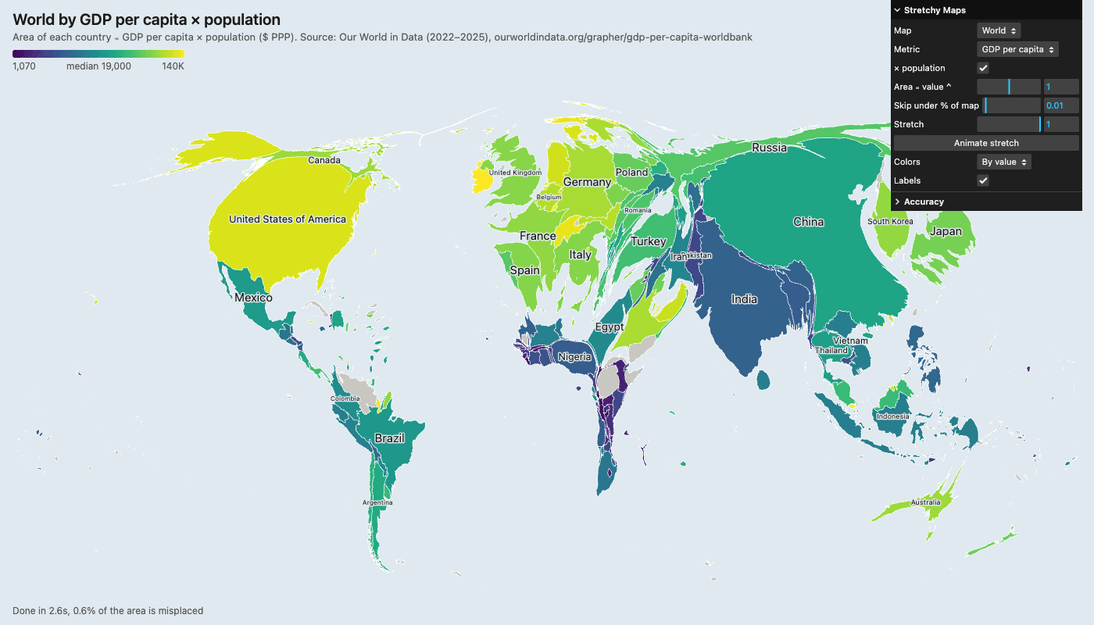
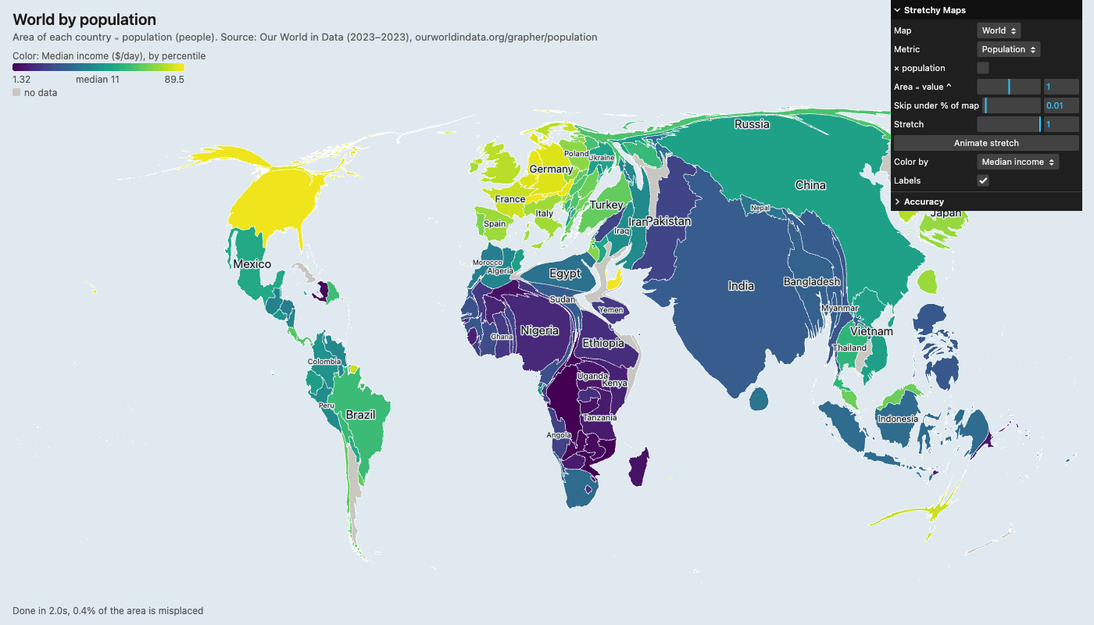
cartogram: color by a second metric, glide between cartograms when switching metrics

diff --git a/cartogram/main.js b/cartogram/main.js
@@ -81,20 +81,22 @@ const params = {
   perPerson: false,
   power: 1,
   morph: 1,
-  colors: 'By value',
+  colors: 'Size metric',
   labels: true,
   resolution: 512,
   passes: 10,
   tiny: null,
 };
 const ranges = {power: [0, 2], tiny: [0, 0.2], passes: [1, 20]};
-const colorModes = ['By value', 'Map colors'];
+// Besides any metric, colors can follow the size metric or just tell
+// neighbors apart.
+const colorModes = ['Size metric', 'Map colors'];
 const resolutions = [256, 512, 1024];
 const hash = new URLSearchParams(location.hash.slice(1));
 if (Object.hasOwn(regions, hash.get('region')))
   params.region = hash.get('region');
 if (hash.has('metric')) params.metric = hash.get('metric'); // checked in loadRegion
-if (colorModes.includes(hash.get('colors'))) params.colors = hash.get('colors');
+if (hash.has('colors')) params.colors = hash.get('colors'); // checked in loadRegion
 if (resolutions.includes(+hash.get('resolution')))
   params.resolution = +hash.get('resolution');
 for (const key of ['perPerson', 'labels']) {
@@ -218,6 +220,11 @@ const run = () => {
   ].join('|');
   worker?.terminate();
   worker = null;
+  // With a cartogram already showing, hold it until the new one is done and
+  // then glide straight across, rather than snapping back toward the real
+  // map while the passes run.
+  const glide = target !== base;
+  easeRate = glide ? 0.08 : 0.25;
   if (cache.has(key)) {
     target = cache.get(key).points;
     setStatus(doneText(cache.get(key)));
@@ -233,7 +240,7 @@ const run = () => {
     worker = null;
   };
   worker.onmessage = ({data}) => {
-    target = data.points;
+    if (!glide || data.type === 'done') target = data.points;
     const err = `${pct(data.error.misplaced)} of the area is misplaced`;
     if (data.type === 'progress') {
       setStatus(
@@ -264,6 +271,20 @@ const loadRegion = () => {
   if (!names.includes(params.metric)) params.metric = names[0];
   metricCtrl.options(names);
   metricCtrl.updateDisplay();
+  if (![...colorModes, ...names].includes(params.colors))
+    params.colors = colorModes[0];
+  colorsCtrl.options([...colorModes, ...names]);
+  colorsCtrl.updateDisplay();
+};
+
+// The metric colors show, if any, and each feature's value of it.
+const colorMetric = () =>
+  params.colors === 'Size metric'
+    ? metricInfo()
+    : map.data.metrics.find((m) => m.name === params.colors);
+const colorValues = () => {
+  const mi = map.data.metrics.indexOf(colorMetric());
+  return map.features.map((f) => map.data.values[f.id]?.[mi] ?? null);
 };
 
 // Header: title, subtitle, and color legend.
@@ -280,22 +301,32 @@ const updateHeader = () => {
   document.getElementById('subtitle').textContent =
     `Area of each ${map.noun} ∝ ${what}${power}${m.unit ? ` (${m.unit})` : ''}. Source: ${m.source}`;
   const legend = document.getElementById('legend');
-  const sorted = values.filter((v) => v !== null).sort((a, b) => a - b);
-  if (params.colors !== 'By value' || !sorted.length) {
+  const cm = colorMetric();
+  const sorted =
+    cm &&
+    colorValues()
+      .filter((v) => v !== null)
+      .sort((a, b) => a - b);
+  if (!sorted?.length) {
     legend.innerHTML = '';
     return;
   }
   const stops = Array.from({length: 11}, (_, i) =>
     interpolateViridis(i / 10),
   ).join(',');
-  legend.innerHTML = `<div class="bar" style="background:linear-gradient(90deg,${stops})"></div>
-    <div class="ends"><span>${fmt(sorted[0])}</span><span>median ${fmt(sorted[sorted.length >> 1])}</span><span>${fmt(sorted[sorted.length - 1])}</span></div>`;
+  legend.innerHTML = `<div class="label"></div>
+    <div class="bar" style="background:linear-gradient(90deg,${stops})"></div>
+    <div class="ends"><span>${fmt(sorted[0])}</span><span>median ${fmt(sorted[sorted.length >> 1])}</span><span>${fmt(sorted[sorted.length - 1])}</span></div>
+    <div class="none"><i></i>no data</div>`;
+  legend.querySelector('.label').textContent =
+    `Color: ${cm.name}${cm.unit ? ` (${cm.unit})` : ''}, by percentile`;
 };
 
 // Colors by rank, so a few outliers don't wash out everyone else.
 const fillColors = () => {
   const css = getComputedStyle(document.documentElement);
   const missing = css.getPropertyValue('--missing');
+  const vals = colorValues();
   if (params.colors === 'Map colors') {
     const hues = [
       '#e8c07d',
@@ -309,7 +340,7 @@ const fillColors = () => {
       values[i] === null ? missing : hues[f.hue],
     );
   }
-  const sorted = values.filter((v) => v !== null).sort((a, b) => a - b);
+  const sorted = vals.filter((v) => v !== null).sort((a, b) => a - b);
   const rank = (v) => {
     let lo = 0;
     let hi = sorted.length;
@@ -320,9 +351,7 @@ const fillColors = () => {
     }
     return lo / Math.max(1, sorted.length - 1);
   };
-  return values.map((v) =>
-    v === null ? missing : interpolateViridis(rank(v)),
-  );
+  return vals.map((v) => (v === null ? missing : interpolateViridis(rank(v))));
 };
 
 // Rendering
@@ -444,6 +473,7 @@ const draw = () => {
 let easedTarget;
 let easedMorph;
 let settled = false;
+let easeRate = 0.25;
 
 const frame = () => {
   requestAnimationFrame(frame);
@@ -464,7 +494,7 @@ const frame = () => {
   if (!settled && target.length === display.length) {
     for (let p = 0; p < display.length; p++) {
       const goal = base[p] + (target[p] - base[p]) * m;
-      const d = (goal - display[p]) * 0.25;
+      const d = (goal - display[p]) * easeRate;
       display[p] += d;
       moved = Math.max(moved, Math.abs(d));
     }
@@ -498,7 +528,12 @@ canvas.addEventListener('pointermove', (e) => {
   const total = areas.reduce((a, b) => a + b, 0);
   const totalW = weights.reduce((a, b) => a + b, 0);
   const m = metricInfo();
-  tip.innerHTML = `<b></b>${fmt(values[i])} ${values[i] === null ? '' : m.unit}<br>
+  const cm = colorMetric();
+  const colorLine =
+    cm && cm !== m
+      ? `<br>${cm.name}: ${fmt(colorValues()[i])} ${colorValues()[i] === null ? '' : cm.unit}`
+      : '';
+  tip.innerHTML = `<b></b>${m.name}: ${fmt(values[i])} ${values[i] === null ? '' : m.unit}${colorLine}<br>
     <span>${
       tiny[i]
         ? 'Too small to resize'
@@ -551,9 +586,9 @@ const morphCtrl = gui
 gui
   .add({play: () => (anim = params.morph > 0.5 ? -1 : 1)}, 'play')
   .name('Animate stretch');
-gui
+const colorsCtrl = gui
   .add(params, 'colors', colorModes)
-  .name('Colors')
+  .name('Color by')
   .onChange(() => {
     saveSettings();
     updateHeader();

diff --git a/cartogram/index.html b/cartogram/index.html
@@ -36,6 +36,8 @@
   #legend{margin-top:8px;font-size:12px;color:var(--text-dim);}
   #legend .bar{width:220px;height:10px;border-radius:3px;margin:3px 0;}
   #legend .ends{width:220px;display:flex;justify-content:space-between;}
+  #legend .none{display:flex;align-items:center;gap:5px;margin-top:3px;}
+  #legend .none i{width:10px;height:10px;border-radius:2px;background:var(--missing);}
   #status{position:fixed;left:16px;bottom:12px;font-size:12px;color:var(--text-dim);pointer-events:none;}
   #tip{position:fixed;pointer-events:none;background:var(--tip);border-radius:6px;padding:6px 9px;font-size:13px;
     box-shadow:0 2px 8px #0003;display:none;white-space:nowrap;}

diff --git a/cartogram/README.md b/cartogram/README.md
@@ -5,8 +5,10 @@ Stretchy Maps - 2026 - The world by country and the US by county, stretched so e
 Contiguous cartograms of the world by country and the US by county: every
 region is resized so its area is proportional to a chosen metric, like median
 income or child mortality, while still touching the same neighbors. Alaska and
-Hawaii sit in insets off the lower left. Pick a map and a metric; the map stretches
-into shape as it's computed.
+Hawaii sit in insets off the lower left. Pick a map and a metric; the map
+stretches into shape as it's computed, and switching metrics glides from one
+shape to the next. Color can show a second metric, so you can size countries by
+population and color them by income.
 
 ## How it works
 
